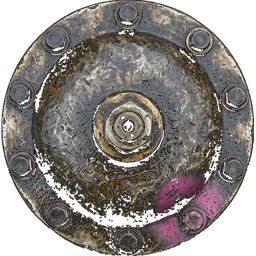
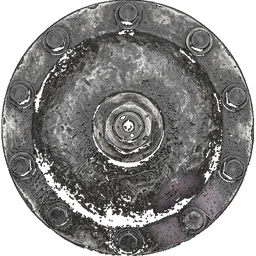
Амперград: фурнитура поля — нейтральная сталь вместо бронзы
На первом уровне две горловины приёмников стояли инородными предметами:
деталь нарисована бронзой (у горловины 22 % тёплых насыщенных пикселей,
у колпака шины — 30 %), а бронзы нет в палитре Guttercaps. Отметку цели
мы уже перекрасили в оранжевый, но сама деталь оставалась бронзовой.

Что сделано:
- art/tools/recolor_hardware.py: гасит насыщенность горловины и колпака,
  сохраняя яркость — деталь остаётся читаемой, но нейтральной (98 % серого);
- фурнитура не повторяет материал яруса: сталь не спорит ни с цинком, ни
  с хромом, ни с ржавчиной, а цвет на поле несут среда, ток и отметка цели;
- геометрия не тронута: стыки 6842 из 6842, поперечник 64 px, разброс 0.

Пересобраны ассеты и макеты art/preview.

diff --git a/art/tools/recolor_hardware.py b/art/tools/recolor_hardware.py
@@ -1,0 +1,71 @@
+#!/usr/bin/env python3
+"""
+Фурнитура поля — нейтральная сталь: горловина приёмника и колпак шины.
+
+Зачем: эти две детали стояли на поле инородными предметами. Они нарисованы
+бронзой (у колпака треть пикселей в зоне 30°, у горловины — красные и
+оранжевые акценты), а бронзы нет в палитре Guttercaps: asphalt #16151A,
+magenta #FF2E8A, cyan #16E5D9, acid #B6FF3C, orange #FF7A1A. На первом уровне
+две горловины спорили с цинковыми трубами сильнее всего.
+
+Фурнитура — не труба: она не обязана повторять материал яруса (цинк, хром,
+ржавчина, чугун, стекло), поэтому красится в нейтральную сталь. Сталь не
+спорит ни с одним ярусом, а цвет на поле несут среда, ток и отметка цели.
+Геометрию не трогаем: меняется только цвет, стыки остаются прежними.
+
+Запуск: python3 art/tools/recolor_hardware.py        (нужен pillow + numpy)
+"""
+import os
+
+import numpy as np
+from PIL import Image
+
+HERE = os.path.dirname(os.path.abspath(__file__))
+ART = os.path.dirname(HERE)
+TILES = os.path.join(ART, "tiles")
+
+# Что перекрашиваем и сколько цвета оставляем (0 — совсем серое, 1 — как было).
+HARDWARE = {
+    "mouth.png": 0.12,  # горловина приёмника: было много красного и оранжевого
+    "cap.png": 0.15,  # колпак шины: треть пикселей — бронза
+}
+
+
+def steel(path: str, keep: float) -> tuple[float, float]:
+    """Гасит насыщенность, сохраняя яркость: деталь остаётся читаемой, но нейтральной."""
+    im = Image.open(path).convert("RGBA")
+    data = np.array(im).astype(np.float32)
+    rgb = data[..., :3] / 255.0
+    # Яркость по восприятию: чтобы после обесцвечивания деталь не потемнела.
+    lum = (0.299 * rgb[..., 0] + 0.587 * rgb[..., 1] + 0.114 * rgb[..., 2])[..., None]
+    flat = lum + (rgb - lum) * keep
+    data[..., :3] = np.clip(flat * 255.0, 0, 255)
+    out = Image.fromarray(data.astype(np.uint8), "RGBA")
+    out.save(path)
+
+    # Насколько бронзы стало меньше: доля пикселей с тёплым и насыщенным оттенком.
+    def warm_share(arr: np.ndarray) -> float:
+        r, g, b = arr[..., 0], arr[..., 1], arr[..., 2]
+        mx = arr.max(-1)
+        mn = arr.min(-1)
+        sat = np.where(mx > 0, (mx - mn) / np.maximum(mx, 1e-6), 0.0)
+        warm = (r >= g) & (g >= b)
+        alpha = im.split()[3]
+        visible = np.array(alpha) > 200
+        return float(((sat > 0.18) & warm & visible).sum()) / max(1, int(visible.sum()))
+
+    return warm_share(np.array(im).astype(np.float32)[..., :3] / 255.0), warm_share(flat)
+
+
+def main() -> None:
+    for name, keep in HARDWARE.items():
+        path = os.path.join(TILES, name)
+        if not os.path.exists(path):
+            print(f"нет файла: {name}")
+            continue
+        before, after = steel(path, keep)
+        print(f"{name}: тёплых насыщенных пикселей {before * 100:.0f}% → {after * 100:.0f}%")
+
+
+if __name__ == "__main__":
+    main()

diff --git a/README.md b/README.md
@@ -238,7 +238,9 @@ cd app-android
   `packages/lab/public/art` (спрайты труб, фоны пяти ярусов, пломбы, контракт
   `web.json`) в `assets/art`, поэтому приложение и лаборатория показывают одну и ту
   же картинку. Детали стыкуются сами: спрайт нарисован в положении своей маски и
-  поворачивается на угол фрагмента. Кнопка **ТРУБЫ/СХЕМА** в игре переключает вид
+  поворачивается на угол фрагмента. Фурнитура поля (горловина приёмника, колпак
+  шины) — нейтральная сталь: бронзы в палитре Guttercaps нет, а цвет на поле
+  несут среда, ток и отметка цели (`art/tools/recolor_hardware.py`). Кнопка **ТРУБЫ/СХЕМА** в игре переключает вид
   (в вебе — кнопка «Вид» / клавиша `A`), пломба приходит из `rewards/`: обычная —
   за 1–3 звезды, особая (`resin`, `crack`, `magma`) — за то, как квартал запечатан
   (подсказка, перерасход ходов, три звезды в Плавильне) и подписана на экране
